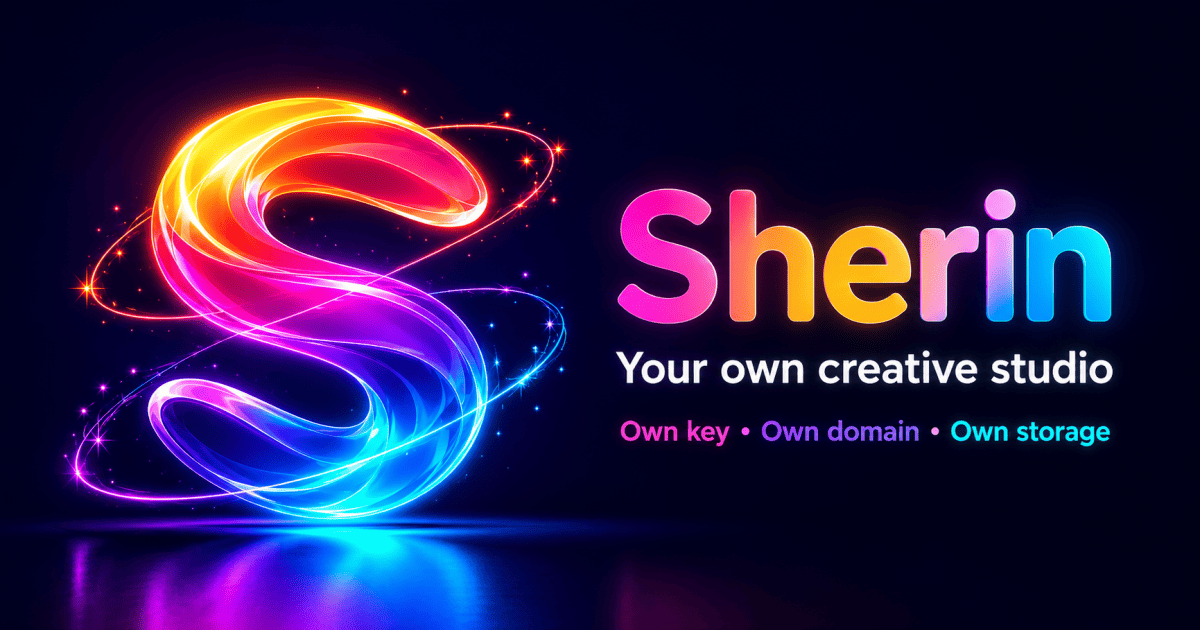
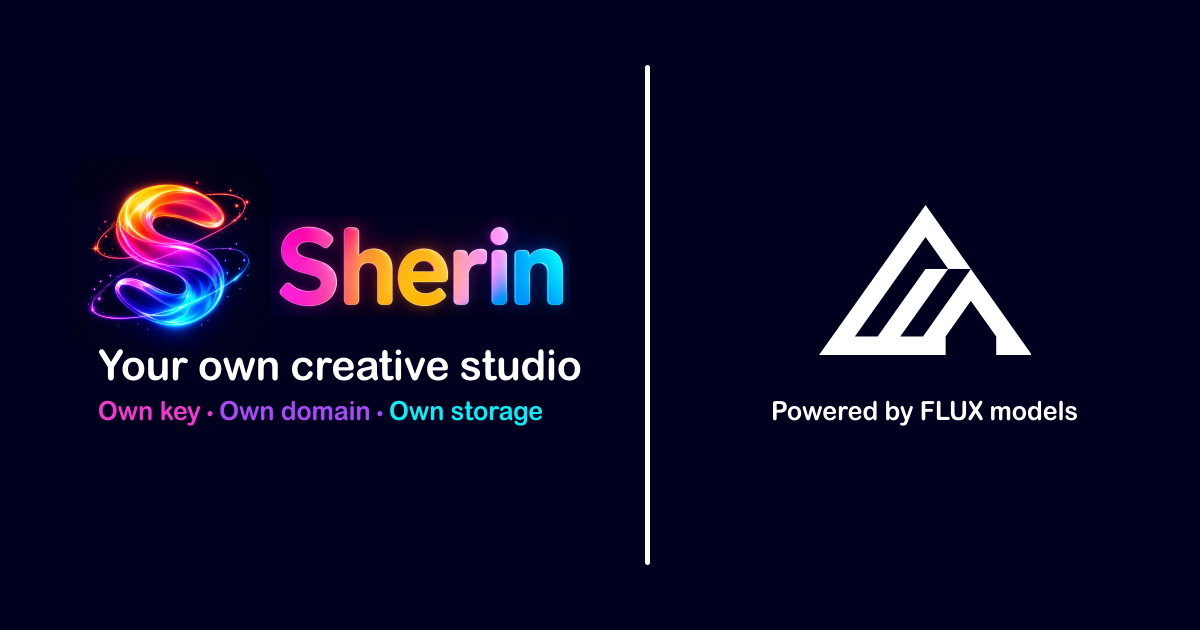
Deploy sherin-for-flux OSS: 004
Package version: v0.1.0.

Publish the standalone sherin-for-flux OSS. See CHANGELOG.md for the complete change summary.

diff --git a/app/page.tsx b/app/page.tsx
@@ -70,7 +70,7 @@ export default function HomePage() {
               fetchPriority="high"
               loading="eager"
             />
-            <span>Sherin</span>
+            <span>Sherin for FLUX</span>
           </a>
           <Link
             href="/access"